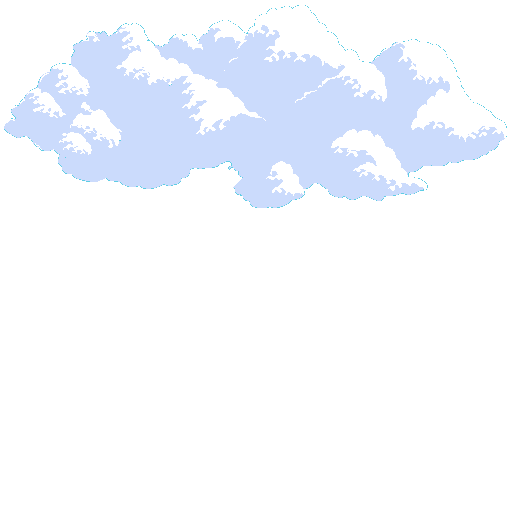
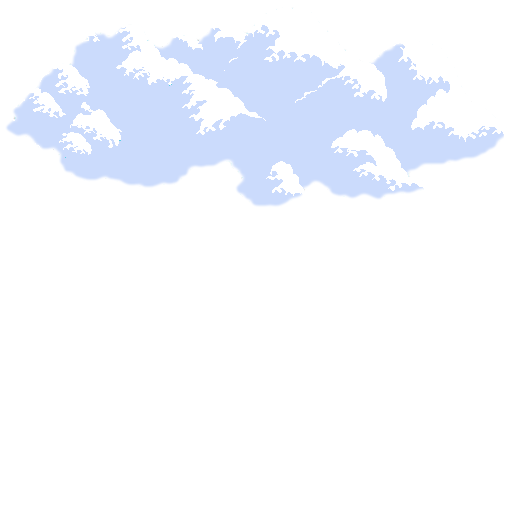
Spotlight and Multiple Lights support

diff --git a/main/main.js b/main/main.js
@@ -19,10 +19,10 @@ var billNode;
 var elapsedTime, lastTime;
 
 const cloudModel = {
-  position: [-1, -0.4, 0, 1, -0.4, 0, 1, 0.4, 0, -1, 0.4, 0],
+  position: [-1, -0.45, 0, 1, -0.45, 0, 1, 0.45, 0, -1, 0.45, 0],
   normal: [0, 0, 1, 0, 0, 1, 0, 0, 1, 0, 0, 1],
   billNormal: [0, 0, 1],
-  texture: [0, 0 /**/, 1, 0 /**/, 1, 0.4 /**/, 0, 0.4],
+  texture: [0, 0 /**/, 1, 0 /**/, 1, 0.45 /**/, 0, 0.45],
   index: [0, 1, 2, 2, 3, 0]
 };
 
@@ -36,25 +36,44 @@ function init(resources) {
   var disableText = new SetUniformSGNode('u_enableObjectTexture',1);
   rootNode = new ShaderSGNode(createProgram(gl, resources.vs_texture, resources.fs_texture),disableText);
   floorNode = new TransformationSGNode(null,new RenderSGNode(cloudModel));
-  floorNode.matrix = mat4.rotateX(mat4.create(),floorNode.matrix, convertDegreeToRadians(90));
-  //billNode = new SetUniformSGNode('u_enableObjectTexture',1,new MaterialSGNode(new AdvancedTextureSGNode(resources.cloudtexture, new ViewRestrictedBillboardNode(true, new RenderSGNode(cloudModel)))));
-  light = new LightSGNode([0,0,0]);
+  floorNode.matrix = mat4.rotateX(mat4.create(),floorNode.matrix, convertDegreeToRadians(90));var m;
+  billNode = new SetUniformSGNode('u_enableObjectTexture',1,m = new MaterialSGNode(new AdvancedTextureSGNode(resources.cloudtexture, new ViewRestrictedBillboardNode(true, new RenderSGNode(cloudModel)))));
+  light = new SpotLightSGNode([0,0,0]);
   light.ambient = [0.2, 0.2, 0.2, 1];
-  light.diffuse = [0.8, 0.8, 0.8, 1];
+  light.diffuse = [0.8, 0.0,0.0, 1];
   light.specular = [1, 1, 1, 1];
+  light.spotDirection = [0,0,1];
+  light.spotSmoothExp = 0.4;
+  light2 = new SpotLightSGNode([0.3,0.3,0]);
+  light2.ambient = [0.2, 0.2, 0.2, 1];
+  light2.diffuse = [0.8, 0.8,0.0, 1];
+  light2.specular = [1, 1, 1, 1];
+  light2.spotDirection = [0,0,1];
+  light2.spotSmoothExp = 0.4;
+  light3 = new AdvancedLightSGNode([0,0,0]);
+  light3.ambient = [0.2, 0.2, 0.2, 1];
+  light3.diffuse = [0.4, 0.4,0.4, 1];
+  light3.specular = [1, 1, 1, 1];
+  light4 = new SpotLightSGNode([0.5,0,0]);
+  light4.ambient = [0.2, 0.2, 0.2, 1];
+  light4.diffuse = [0.8, 0.0,0.0, 1];
+  light4.specular = [1, 1, 1, 1];
 
   translateLight = new TransformationSGNode(glm.translate(0,-0.5,-2)); //translating the light is the same as setting the light position
 
   translateLight.append(light);
+  translateLight.append(light2);
+  translateLight.append(light3);
+  translateLight.append(light4);
   translateLight.append(createLightSphere(0.05,resources)); //add sphere for debugging: since we use 0,0,0 as our light position the sphere is at the same position as the light source
   disableText.append(translateLight);
 
-  disableText.append(createWorld(10, resources));
-  disableText.append(new TransformationSGNode(mat4.translate(mat4.create(),mat4.create(),[0,-0.5,0]),billNode));
-
   this.s1 = new Scene1(resources);
+  this.s1.init();
   this.s1.setSceneTransformation(0,0,7);
   disableText.append(this.s1);
+  disableText.append(createWorld(10, resources));
+  disableText.append(new TransformationSGNode(mat4.translate(mat4.create(),mat4.create(),[0,-0.5,0]),billNode));
   lastTime = new Date().getTime();
   elapsedTime = 0;
 

diff --git a/main/frameExtension.js b/main/frameExtension.js
@@ -14,15 +14,83 @@
    Alles im FS
    */
 
+class AdvancedLightSGNode extends LightSGNode{
 
-class SpotLightSGNode extends LightSGNode {
+  constructor(position, children) {
+    super(position, children);
+    this.uniform = 'u_lights'
+  }
 
-  render(context) {
-    this.computeLightPosition(context);
-    this.setLight(context);
-    //render children
+  setLightPosition(context) {
+    const gl = context.gl;
+    const modUniform = this.uniform.slice(0,this.uniform.length-3)+ 'Pos' + this.uniform.slice(this.uniform.length-3);
+    if (!context.shader || !isValidUniformLocation(gl.getUniformLocation(context.shader, modUniform))) {
+      return;
+    }
+    const position = this._worldPosition || this.position;
+    gl.uniform3f(gl.getUniformLocation(context.shader, modUniform), position[0], position[1], position[2]);
+  }
+
+  setLightUniforms(context){
+    const gl = context.gl;
+    if(context.index === undefined || typeof context.index !== 'number'){
+      context.index = 0;
+    } else{
+      context.index = context.index + 1;
+    }
+    this._index = context.index;
+    //no materials in use
+    this.uniform = 'u_lights[' + this._index + ']';
+    if (!context.shader || !isValidUniformLocation(gl.getUniformLocation(context.shader, this.uniform+'.ambient'))) {
+      return;
+    }
+
+    gl.uniform1i(gl.getUniformLocation(context.shader, 'u_lightsCount'), this._index + 1);
+
+    super.setLightUniforms(context);
+  }
+
+}
+
+class SpotLightSGNode extends AdvancedLightSGNode {
+
+  constructor(position, children){
+    super(position, children);
+
+    this.spotAngle = 10.0;
+    this.spotDirection = [0,1,0];
+    this.spotSmoothExp = 0.0;
+    this._worldSpotDirection = null;
+  }
+
+  setLightUniforms(context){
+    super.setLightUniforms(context);
+    const gl = context.gl;
+    //no materials in use
+    if (!context.shader || !isValidUniformLocation(gl.getUniformLocation(context.shader, this.uniform+'.ambient'))) {
+      return;
+    }
+
+    gl.uniform1i(gl.getUniformLocation(context.shader, this.uniform+'.isSpotLight'), true);
+    gl.uniform1f(gl.getUniformLocation(context.shader, this.uniform+'.spotAngle'), glMatrix.toRadian(this.spotAngle));
+    gl.uniform3f(gl.getUniformLocation(context.shader, this.uniform+'.spotDirection'), this._worldSpotDirection[0], this._worldSpotDirection[1], this._worldSpotDirection[2]);
+    gl.uniform1f(gl.getUniformLocation(context.shader, this.uniform+'.spotSmoothExp'), this.spotSmoothExp);
+  }
+
+  computeSpotDirection(context) {
+    //transform with the current model view matrix
+    const modelViewMatrix = mat4.multiply(mat4.create(), context.viewMatrix, context.sceneMatrix);
+    const original = this.spotDirection;
+    const vec =  vec4.transformMat4(vec4.create(), vec4.fromValues(original[0], original[1],original[2], 0), modelViewMatrix);
+
+    this._worldSpotDirection = vec;
+  }
+
+  render(context){
+    this.computeSpotDirection(context);
     super.render(context);
   }
+
 }
 
 class ViewRestrictedBillboardNode extends TransformationSGNode{
